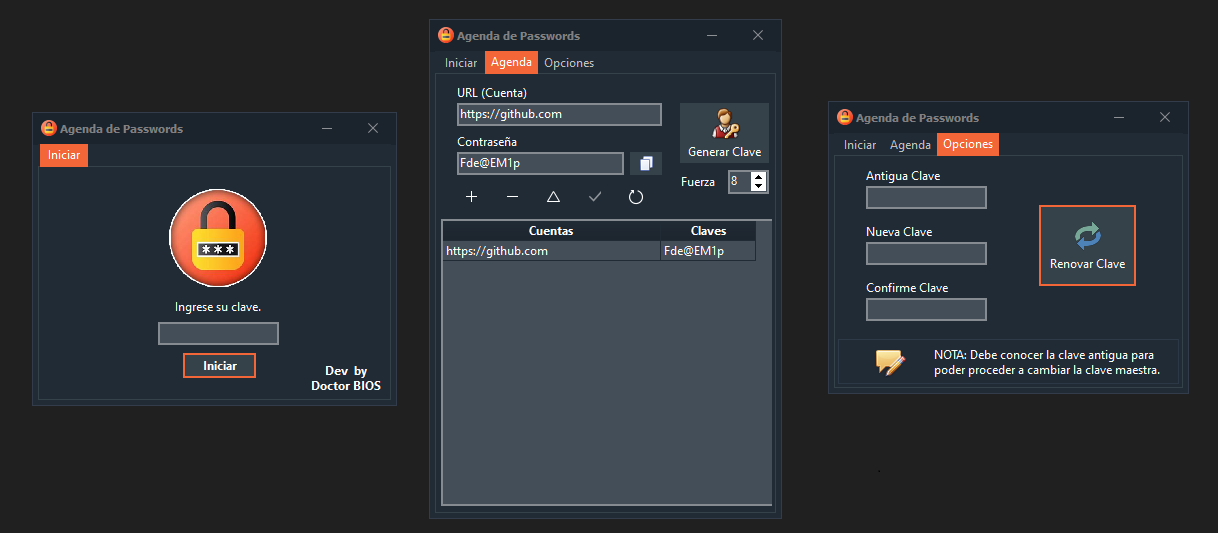
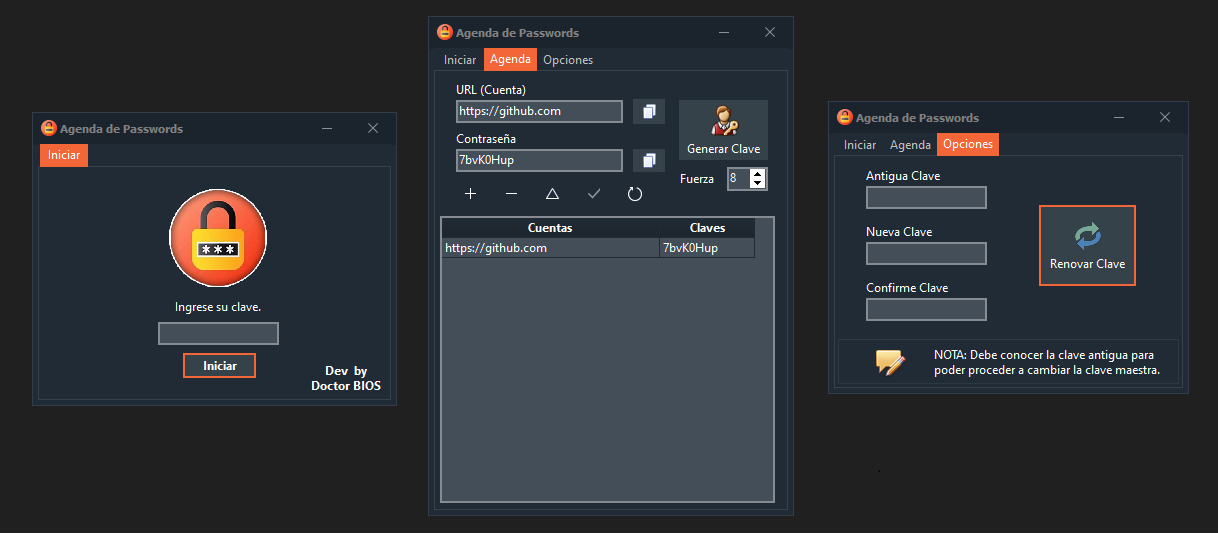
Added  two features

diff --git a/Unit1.h b/Unit1.h
@@ -47,6 +47,7 @@ __published:	// IDE-managed Components
 	TDBEdit *editPass;
 	TLabel *lblIngrese;
 	TBitBtn *btnCopy;
+	TBitBtn *btnCopyUrl;
 	void __fastcall makePassClick(TObject *Sender);
 	void __fastcall inputURLClick(TObject *Sender);
 	void __fastcall btnLoginClick(TObject *Sender);
@@ -54,6 +55,7 @@ __published:	// IDE-managed Components
 	void __fastcall FormShow(TObject *Sender);
 	void __fastcall pageControlChange(TObject *Sender);
 	void __fastcall btnCopyClick(TObject *Sender);
+	void __fastcall btnCopyUrlClick(TObject *Sender);
 
 
 private:	// User declarations
